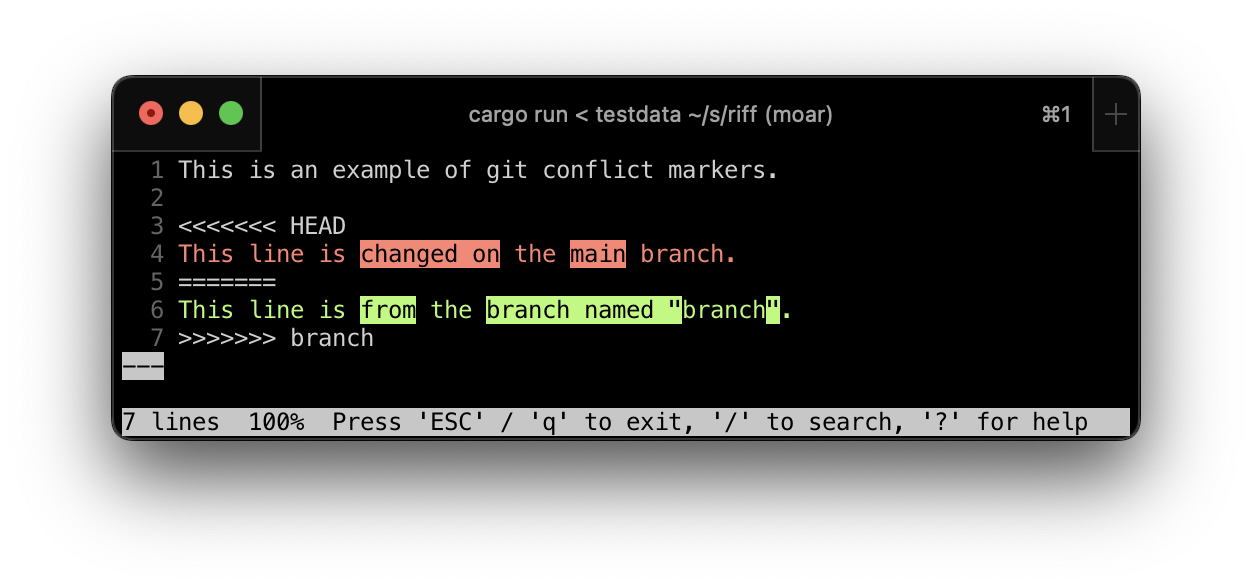
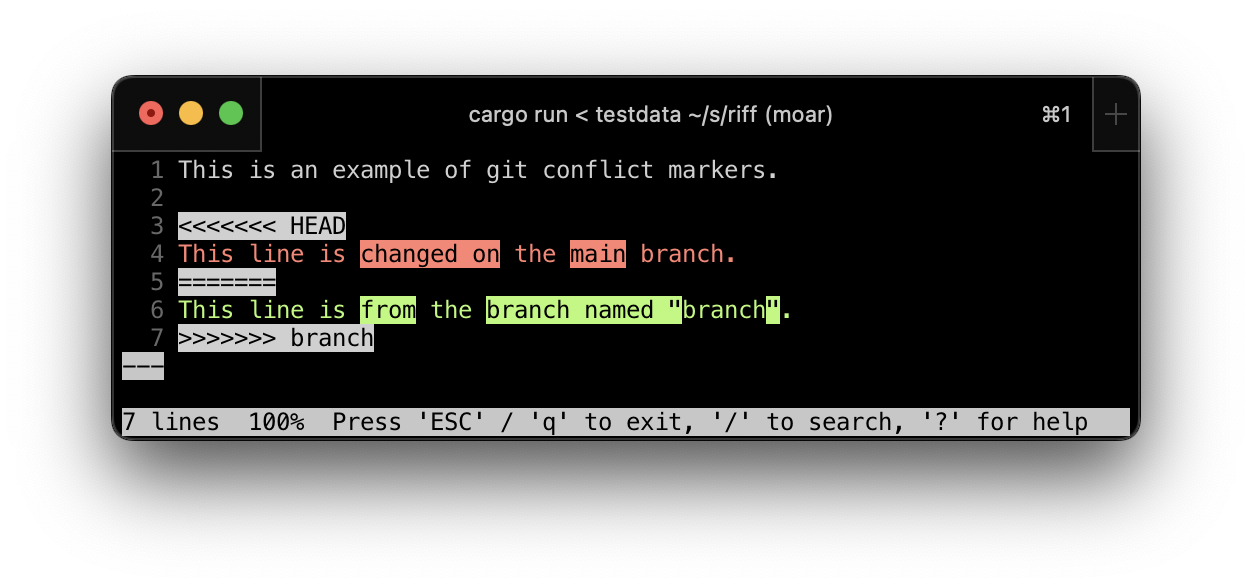
Highlight conflict markers

Changed region(s): [[0.1246, 0.3367, 0.2804, 0.5204], [0.1246, 0.551, 0.3115, 0.6122], [0.3738, 0.1837, 0.6542, 0.2143]]

diff --git a/src/conflicts_highlighter.rs b/src/conflicts_highlighter.rs
@@ -174,7 +174,7 @@ impl ConflictsHighlighter {
         let (header_prefix, c1_prefix, c2_prefix, reset) = if self.c1_header.starts_with("++") {
             (INVERSE_VIDEO, " +", "+ ", NORMAL)
         } else {
-            ("", "", "", "")
+            (INVERSE_VIDEO, "", "", "")
         };
 
         let c1_header = self.c1_header.clone();

diff --git a/SCREENSHOTS.md b/SCREENSHOTS.md
@@ -1,8 +1,11 @@
-To update `screenshot-git-merge.png`, you should be running
-[iTerm2](https://iterm2.com/) and have [`moar`](https://github.com/walles/moar)
-as your pager.
+# Screenshot updating instructions
 
-Then:
+Screenshots are done using:
+
+- Terminal: [iTerm2](https://iterm2.com/)
+- Pager: [`moar`](https://github.com/walles/moar)
+
+## `screenshot-git-merge.png`
 
 1. Scale your terminal window to 65x17
 2. Copy the below example to the clipboard
@@ -25,3 +28,9 @@ index 0399cd5,59727f0..0000000
 
   hello()
 ```
+
+## `screenshot-diff2-conflict.png`
+
+1. Scale your window to 72x10
+2. `cargo run < testdata/conflict-markers.txt.riff-output`
+3. Screenshot the window and store it as `screenshot-diff2-conflict.png`
